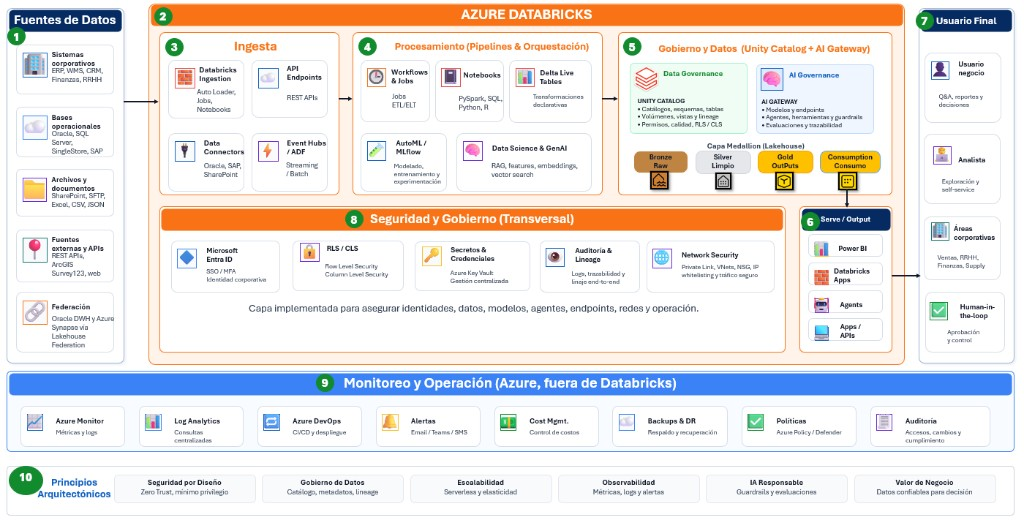
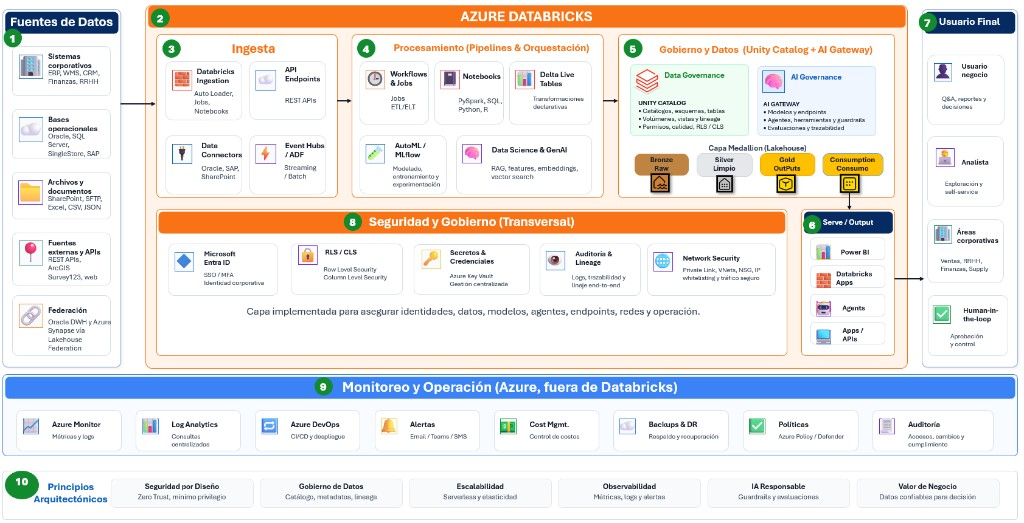
Update architecture diagram with sharper reference image.

diff --git a/orion-works-arquitectura-es.html b/orion-works-arquitectura-es.html
@@ -2164,10 +2164,9 @@ body.ow-lightbox-open {
         <img
           class="ow-arch-diagram__img"
           id="ow-arch-zoom-trigger"
-          src="assets/arquitectura-databricks-referencia.png"
+          src="assets/arquitectura-databricks-referencia.png?v=2"
           alt="Arquitectura de referencia Azure Databricks: fuentes, ingesta, procesamiento, gobierno Medallion, serve, usuarios, seguridad, monitoreo y principios"
-          width="1600"
-          height="900"
+          width="1024" height="523"
           loading="eager"
           decoding="async"
           role="button"
@@ -2192,10 +2191,9 @@ body.ow-lightbox-open {
           <img
             class="ow-arch-lightbox__img"
             id="ow-arch-lightbox-img"
-            src="assets/arquitectura-databricks-referencia.png"
+            src="assets/arquitectura-databricks-referencia.png?v=2"
             alt="Arquitectura de referencia Azure Databricks ampliada"
-            width="2400"
-            height="1350"
+            width="1024" height="523"
             decoding="async"
           >
         </div>

diff --git a/orion-works-arquitectura-en.html b/orion-works-arquitectura-en.html
@@ -2164,10 +2164,9 @@ body.ow-lightbox-open {
         <img
           class="ow-arch-diagram__img"
           id="ow-arch-zoom-trigger"
-          src="assets/arquitectura-databricks-referencia.png"
+          src="assets/arquitectura-databricks-referencia.png?v=2"
           alt="Azure Databricks reference architecture: sources, ingestion, processing, Medallion governance, serve, users, security, monitoring, and principles"
-          width="1600"
-          height="900"
+          width="1024" height="523"
           loading="eager"
           decoding="async"
           role="button"
@@ -2192,10 +2191,9 @@ body.ow-lightbox-open {
           <img
             class="ow-arch-lightbox__img"
             id="ow-arch-lightbox-img"
-            src="assets/arquitectura-databricks-referencia.png"
+            src="assets/arquitectura-databricks-referencia.png?v=2"
             alt="Enlarged Azure Databricks reference architecture"
-            width="2400"
-            height="1350"
+            width="1024" height="523"
             decoding="async"
           >
         </div>
